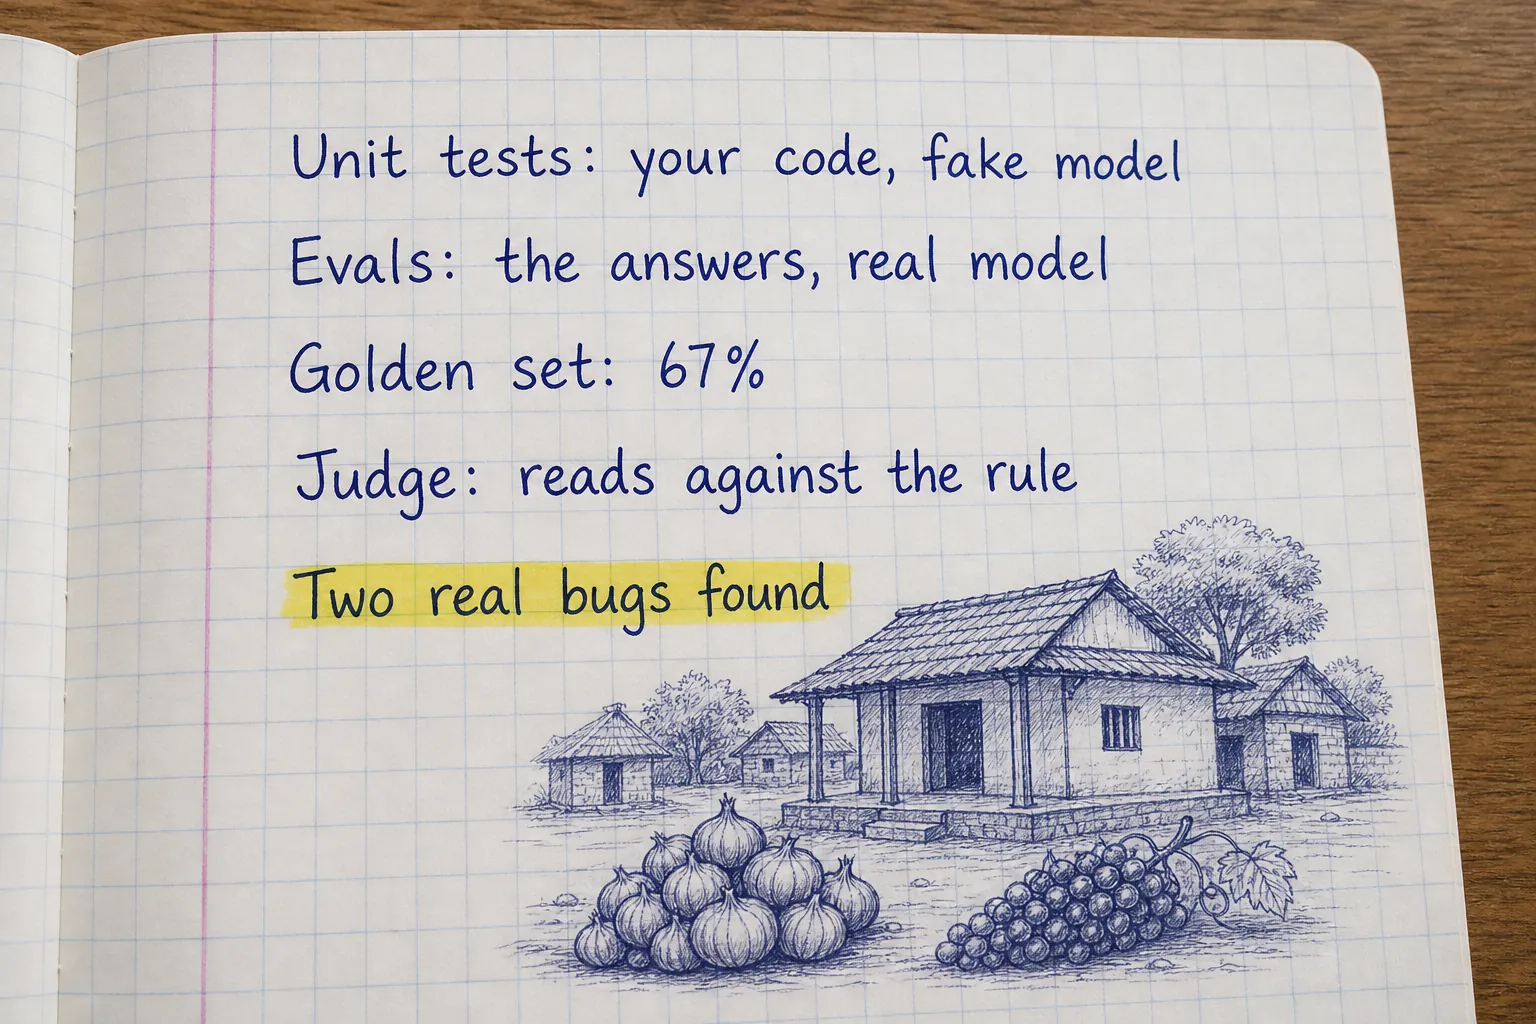
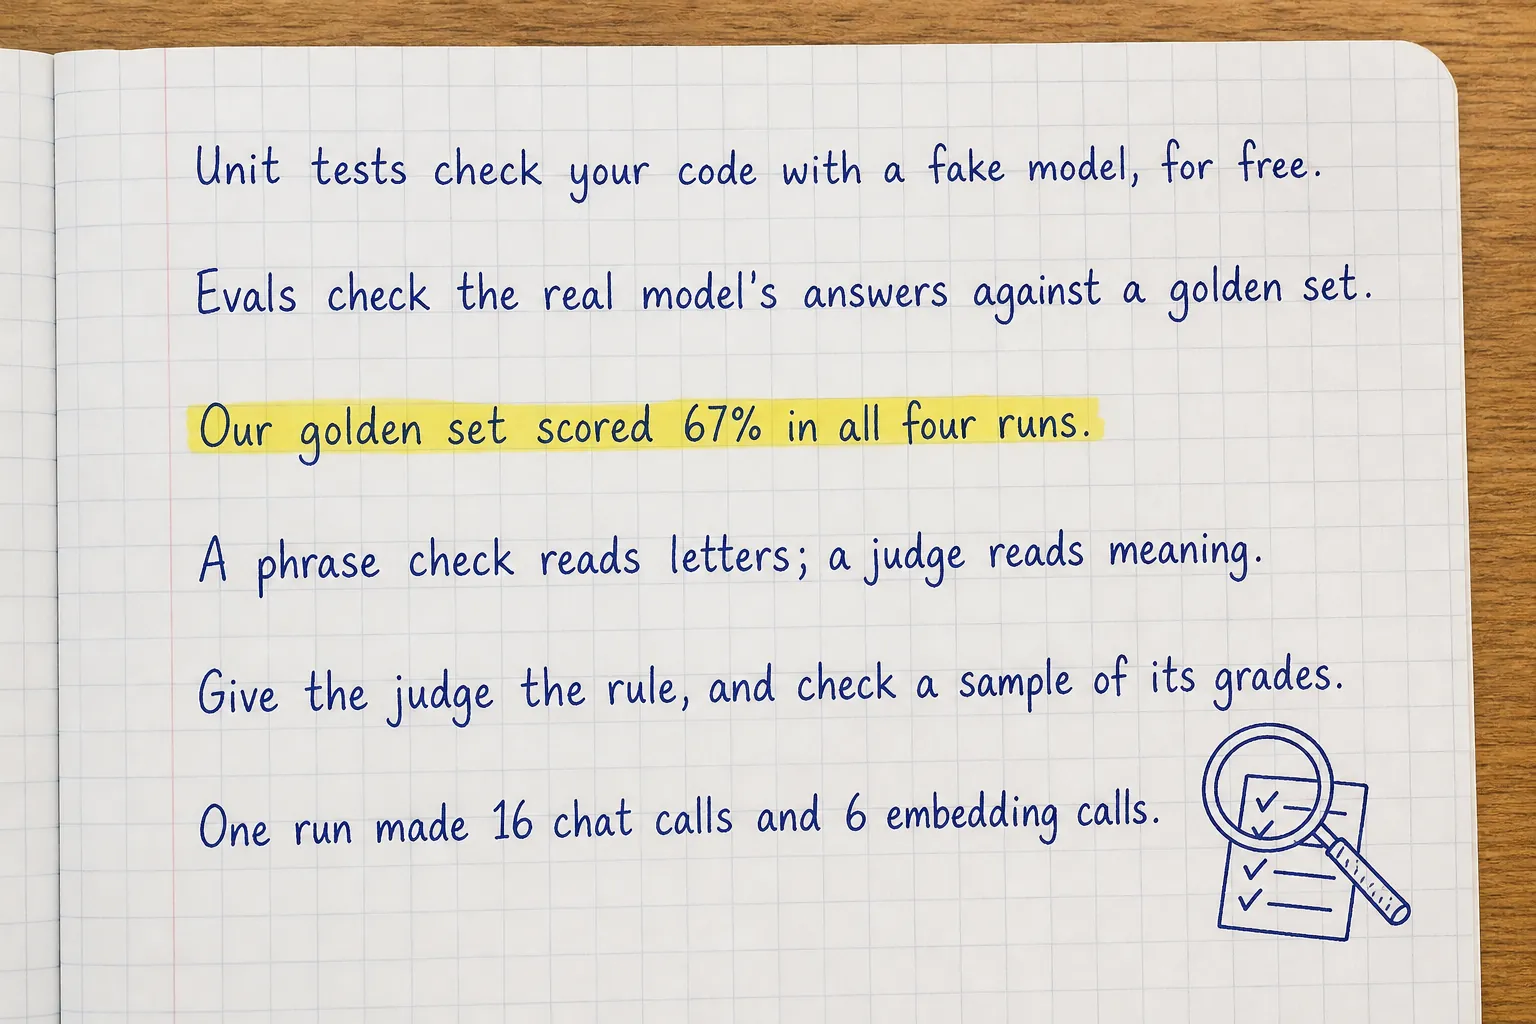
LangChain chapter 26 rewritten: plain and fuller, three live runs, the per-minute limit found and taught

diff --git a/labs/langchain/chapters/26-evals.md b/labs/langchain/chapters/26-evals.md
@@ -7,8 +7,17 @@ Two kinds of tests answer two different questions:
 
 - **Unit tests** check your **code** with a fake model, the way every **Check** in this course has: free, instant, the
   same result every time.
-- **Evals** check the **answers**, with the real model: a golden set of questions with known right answers, scored
-  automatically. When a phrase check is too crude, a second model reads each answer and judges it against the rule.
+- **Evals** (short for evaluations) check the **answers**, with the real model: a **golden set** of questions with
+  known right answers, scored automatically. When a phrase check is too crude, a second model reads each answer and
+  judges it against the rule.
+
+| | Unit tests | Evals |
+|---|---|---|
+| What they check | your code | the model's answers |
+| The model | a fake one, with scripted replies | the real one |
+| Cost | nothing | model calls (this chapter: 22 per run) |
+| Same result every time | yes | no: answers vary from run to run |
+| When to run | on every change | before changing a prompt, chunks or model, and on a schedule |
 
 :::mission
 Score Navin's real answers against a golden set, then build a judge: a model that grades an answer against the co-op's
@@ -19,15 +28,15 @@ rule and says why.
 :::step{type=history title="From test suites to evals"}
 :::before{title="Tests for code that always answers the same"}
 Software testing grew up around code with one right output: `storage_cost(40, 10)` must be 800, every time. Unit testing
-frameworks (SUnit for Smalltalk in 1994, JUnit in 1997, Python's unittest in 2001, pytest since 2004) made those tests
-routine.
+frameworks (SUnit for Smalltalk, published in 1994; JUnit in 1997; Python's unittest in 2001; pytest since 2004) made
+those tests routine.
 :::
 
 Language models broke the assumption: the same question can get differently worded answers, all right, or one subtly
 wrong. In **March 2023**, with GPT-4, OpenAI open-sourced **Evals**, a framework for scoring models on sets of questions.
 In **2023** researchers studied **LLM-as-a-judge** (Lianmin Zheng and colleagues, "Judging LLM-as-a-Judge"), and found
-that a strong model's grades agree with human graders most of the time, with known biases (it favours longer answers
-and its own style). Evals became part of building any AI application.
+that GPT-4's grades agreed with human graders over 80% of the time, about as often as two humans agree with each other,
+with known biases: it favoured the answer shown first, longer answers, and its own style. Evals became part of building any AI application.
 
 :::solved
 **A number for answer quality.** Change the prompt, the chunks or the model, run the set, and compare.
@@ -57,20 +66,29 @@ it:
 | How much loan can I get for 4 acres? | 2,00,000 | Rs 50,000 per acre |
 | Do you buy garlic? | don't know | not in any rule: the honest answer |
 
-The pass rate is the share of answers containing their phrase. It is cheap (no model call) and strict in the wrong ways:
+The **pass rate** is the share of answers containing their phrase (4 of 6 is 0.67, shown as 67%). It is cheap (no model call) and strict in the wrong ways:
 "Rs 200,000" is right and fails the phrase "2,00,000"; "approval is not needed" contains "approval" and passes.
 :::
 
 :::step{type=task task=golden_eval title="Your turn: the pass rate" file="26-evals/evals.py" line="15-19"}
-Finish `pass_rate(answers, golden)`: count the answers that contain their golden phrase (the second item of each
-entry), lower-casing both, and return `passed / len(golden)`.
+Finish `pass_rate(answers, golden)`:
+
+1. Walk the answers and the golden entries side by side: `zip(answers, golden)`. Each entry is (question, phrase,
+   rule file); the phrase is the second item.
+2. Count an answer as passed when `phrase.lower() in answer.lower()`.
+3. Return `passed / len(golden)`, a number from 0 to 1 (not a percentage).
+
+The usual slips:
+
+- Lower-casing only the answer: the phrase "Approval" then never matches.
+- Returning `passed` (a count) or `passed * 100`: the check expects 0.75 for 3 of 4.
 
 Press **Check**.
 :::
 
 :::step{type=concept title="A model as judge" file="26-evals/evals.py" line="22-36"}
-A judge is chapter 13's structured output, used to grade: the rule, the question and the answer go in; a `Grade` comes
-out.
+A **judge** is a second model call that grades the first one's answer. It is chapter 13's structured output, used to
+grade: the rule, the question and the answer go in; a `Grade` comes out.
 
 ```python
 class Grade(BaseModel):
@@ -84,8 +102,14 @@ confident answers. Check a sample of their grades yourself before trusting them.
 :::
 
 :::step{type=task task=judge_answer title="Your turn: the judge" file="26-evals/evals.py" line="32-36"}
-Finish `judge(question, answer, rule)`: return `model.with_structured_output(Grade).invoke(JUDGE.format(rule=rule,
-question=question, answer=answer))`.
+Finish `judge(question, answer, rule)`:
+
+1. Fill the prompt: `JUDGE.format(rule=rule, question=question, answer=answer)`.
+2. Ask for a `Grade`: `model.with_structured_output(Grade)`.
+3. Invoke it with the prompt and return the `Grade`.
+
+The usual slip: `model.invoke(...)` without `with_structured_output`. That returns an `AIMessage` of free text,
+and `grade.correct` in `main.py` fails with `AttributeError`.
 
 ```bash run
 cd /workspace/26-evals && python main.py
@@ -95,6 +119,9 @@ Press **Check**.
 :::
 
 :::step{type=try title="Navin, graded"}
+A real run (we ran it three more times on 25 November: 67% every time, the same two failures and the same verdicts,
+in other words):
+
 ```text
 $ python main.py 2>&1 | grep -v Warning
 > Can I store 80 crates of onions? How long until I know?
@@ -186,8 +213,13 @@ question? Chapter 11's `tools_used` is a trajectory check.
 **Tools for evals.** LangChain's docs describe agent evals with the open-source `agentevals` package and with
 LangSmith (a hosted service that needs its own API key, which this course does not use).
 
-**Cost.** This chapter's run is 6 agent runs plus 5 judge calls. A golden set of 200 questions, run before each release,
-is still only a few cents with a small model.
+**Cost.** One run of this chapter, from the backend's log: 16 chat calls (the 6 agent runs, most with a search, plus
+5 judge calls) and 6 embedding calls, at about $0.00006 each with gpt-4o-mini's prices. A golden set of 200 questions
+is about 600 chat calls, about $0.04 (prices of November 2026).
+
+**The lab's limit.** The lab's gateway allows 20 model calls a minute. We ran `main.py` twice in a row and the second
+run stopped with `429 - Too many requests: the limit is 20 a minute`. Wait a minute between runs. Real eval runs
+hit the provider's limits the same way, which is why eval tools let you limit how many questions run at once.
 :::
 
 :::step{type=recap}
@@ -200,7 +232,7 @@ You can now:
 
 Next, chapter 27: Navin goes live, everything in one web service.
 
-:::photo{src="/lesson-images/langchain/lc-26-notes.webp" alt="Handwritten notes about tests and evals: Unit tests: your code, fake model; Evals: the answers, real model; Golden set: 67%; Judge: reads against the rule; Two real bugs found" ai="true"}
+:::photo{src="/lesson-images/langchain/lc-26-notes.webp" alt="Handwritten notes about tests and evals: Unit tests check your code with a fake model, for free. Evals check the real model's answers against a golden set. Our golden set scored 67% in all four runs. A phrase check reads letters; a judge reads meaning. Give the judge the rule, and check a sample of its grades. One run made 16 chat calls and 6 embedding calls." ai="true"}
 One page of notes for this chapter.
 :::
 :::

diff --git a/CHANGELOG.md b/CHANGELOG.md
@@ -1,5 +1,17 @@
 # Changelog
 
+## 25 November: LangChain chapter 26 rewritten (easy, a little detailed, checked)
+
+- Evals, golden set, pass rate and judge are explained where they first appear, with a table of unit tests against
+  evals; both tasks list their steps and the usual slips (lower-casing only the answer; a count instead of a share;
+  `invoke` without `with_structured_output`).
+- Checked through the lab gateway, three times: 67% every run, the same two failures (80 crates, the joining fee) and
+  the same verdicts from the judge. One run is 16 chat calls and 6 embedding calls (from the backend's log), about
+  $0.001; the cost of 200 questions is now worked out (about $0.04). Found and taught: the lab allows 20 model calls a
+  minute, so a second run straight after the first stops with a 429; wait a minute. The LLM-as-a-judge study is now
+  stated with its numbers (over 80% agreement, as often as two humans) and its three biases; SUnit is "published in
+  1994". A new notes page.
+
 ## 25 November: LangChain chapter 25 rewritten (easy, a little detailed, checked)
 
 - Human in the loop, the checkpointer, `interrupt_on` and `__interrupt__` are explained where they first appear; both

diff --git a/REWRITE_LIST.md b/REWRITE_LIST.md
@@ -11,7 +11,7 @@ Status: **1 of 23 labs done** (13 of 319 chapters).
 | # | Lab | Title | Chapters | Status | Done on |
 |---|---|---|---|---|---|
 | 1 | rag-vector-databases | RAG and vector databases | 13 | done (13 of 13) | 25 Nov |
-| 2 | langchain | LangChain | 27 | in progress (25 of 27) | |
+| 2 | langchain | LangChain | 27 | in progress (26 of 27) | |
 | 3 | langchain4j | LangChain4j | 30 | not started | |
 | 4 | langgraph | LangGraph | 24 | not started | |
 | 5 | spring-ai | Spring AI | 20 | not started | |
